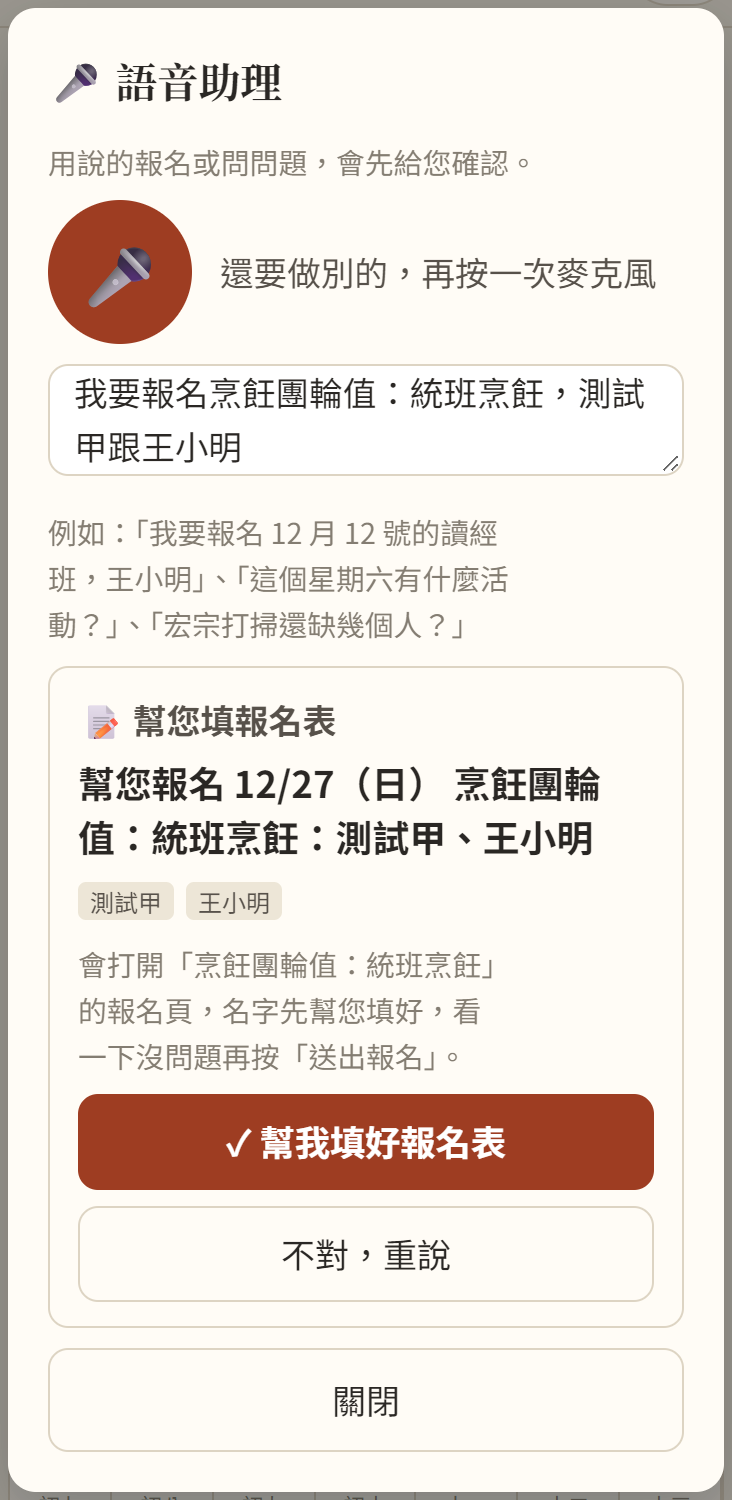
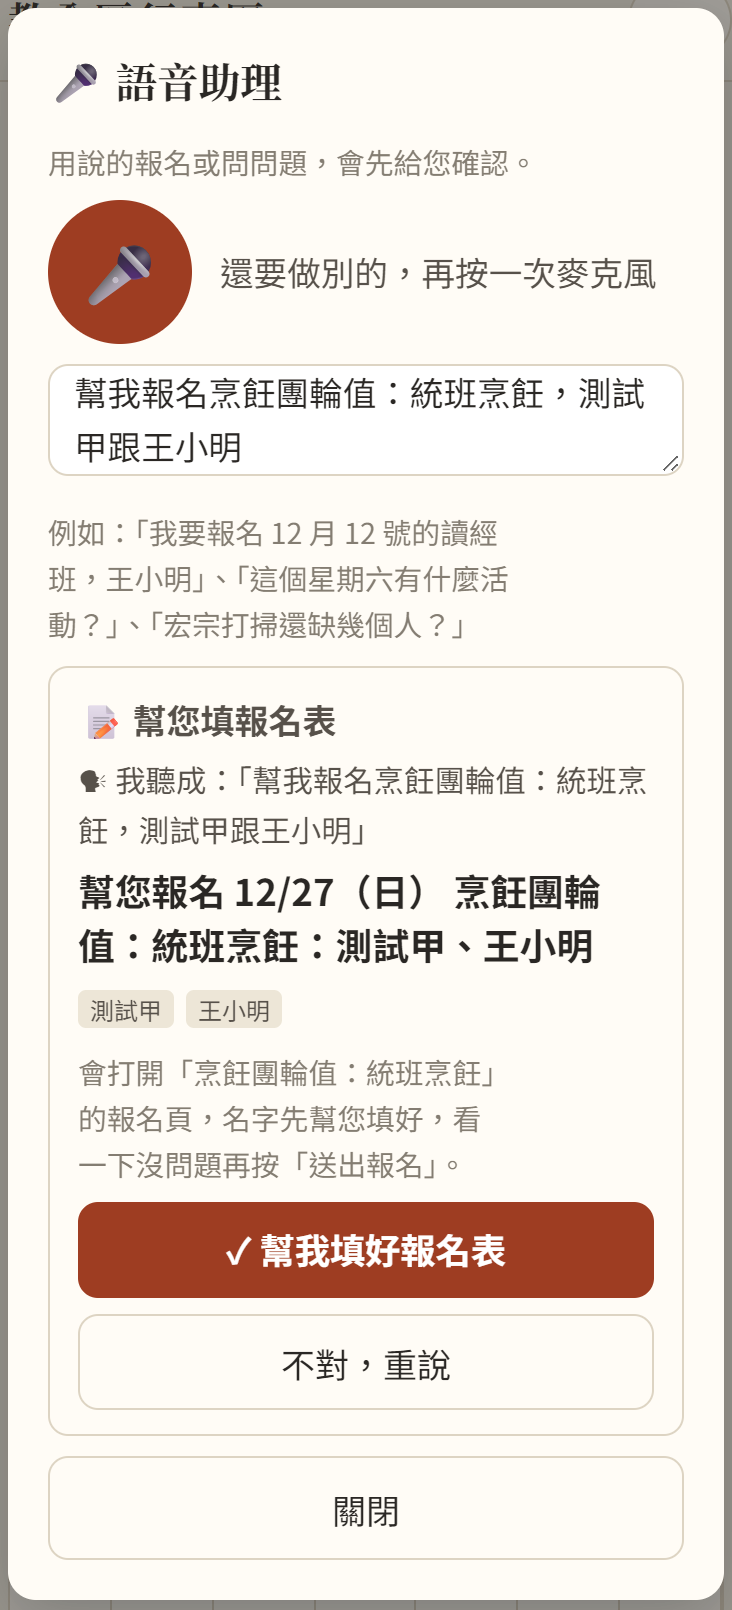
語音助理：先去掉贅字、改正台灣國語常認錯的字（照行事曆、管理者再加成員名字），確認卡寫「我聽成」

diff --git a/index.html b/index.html
@@ -15,7 +15,7 @@
   if (location.hostname === 'bailixiao.github.io') location.replace('https://jiaoquan-cal.pages.dev/' + location.pathname.replace(/^\/duty-calendar\/?/, '').replace(/index\.html$/, '') + location.search + location.hash);
   </script>
   <meta name="viewport" content="width=device-width, initial-scale=1">
-  <meta name="app-version" content="20261127m"><!-- 整個網站的版本：部署時和 ?v= 一起換（js/update-check.js 用；正式網站的 ?v= 會換成各檔案的雜湊，見 tools/build-pages.js） -->
+  <meta name="app-version" content="20261127n"><!-- 整個網站的版本：部署時和 ?v= 一起換（js/update-check.js 用；正式網站的 ?v= 會換成各檔案的雜湊，見 tools/build-pages.js） -->
   <meta name="theme-color" content="#f6f1e7">
   <title>教全區行事曆</title>
   <!-- 加到手機主畫面時的圖示與名稱 -->
@@ -32,7 +32,7 @@
   <link rel="preconnect" href="https://fonts.googleapis.com">
   <link rel="preconnect" href="https://fonts.gstatic.com" crossorigin>
   <link href="https://fonts.googleapis.com/css2?family=Noto+Sans+TC:wght@400;500;700&family=Noto+Serif+TC:wght@600;700&display=swap" rel="stylesheet">
-  <link rel="stylesheet" href="css/app.css?v=20261127m">
+  <link rel="stylesheet" href="css/app.css?v=20261127n">
   <script>try { var t = localStorage.getItem('duty-calendar:text-size'); if (t === 'l' || t === 'xl') document.documentElement.classList.add('text-' + t); } catch (e) {}</script>
 </head>
 <body class="splash-on">
@@ -127,81 +127,81 @@
   <script src="https://cdn.jsdelivr.net/npm/fullcalendar@6.1.21/index.global.min.js"></script>
   <script src="https://cdn.jsdelivr.net/npm/@fullcalendar/core@6.1.21/locales/zh-tw.global.min.js"></script>
   <!-- 改了 js、css 後把 ?v= 的日期換新，手機才不會用到舊的檔案（GitHub Pages 會快取 10 分鐘） -->
-  <script src="js/site.js?v=20261127m"></script>
-  <script src="js/region.js?v=20261127m"></script>
-  <script src="js/config.js?v=20261127m"></script>
-  <script src="js/api.js?v=20261127m"></script>
-  <script src="js/format.js?v=20261127m"></script>
-  <script src="js/member-suggest.js?v=20261127m"></script>
-  <script src="js/newcomer.js?v=20261127m"></script>
-  <script src="js/album.js?v=20261127m"></script>
-  <script src="js/member-file.js?v=20261127m"></script>
-  <script src="js/family.js?v=20261127m"></script>
-  <script src="js/lunar-util.js?v=20261127m"></script>
-  <script src="js/date-list.js?v=20261127m"></script>
-  <script src="js/share.js?v=20261127m"></script>
-  <script src="js/addcal.js?v=20261127m"></script>
-  <script src="js/duty-cache.js?v=20261127m"></script>
-  <script src="js/thanks-board.js?v=20261127m"></script>
-  <script src="js/calendar.js?v=20261127m"></script>
-  <script src="js/confirm.js?v=20261127m"></script>
-  <script src="js/voice.js?v=20261127m"></script>
-  <script src="js/reschedule.js?v=20261127m"></script>
-  <script src="js/signup.js?v=20261127m"></script>
-  <script src="js/duty-images.js?v=20261127m"></script>
-  <script src="js/roster-grid.js?v=20261127m"></script>
-  <script src="js/grid-page.js?v=20261127m"></script>
-  <script src="js/grid-image.js?v=20261127m"></script>
-  <script src="js/thanks-image.js?v=20261127m"></script>
-  <script src="js/celebrate.js?v=20261127m"></script>
-  <script src="js/duty.js?v=20261127m"></script>
-  <script src="js/mine.js?v=20261127m"></script>
-  <script src="js/venue-hours.js?v=20261127m"></script>
-  <script src="js/venue.js?v=20261127m"></script>
-  <script src="js/push.js?v=20261127m"></script>
-  <script type="text/x-admin" src="js/attend-check.js?v=20261127m"></script>
-  <script type="text/x-admin" src="js/member-dups.js?v=20261127m"></script>
-  <script type="text/x-admin" src="js/admin.js?v=20261127m"></script>
-  <script type="text/x-admin" src="js/admin-pages.js?v=20261127m"></script>
-  <script type="text/x-admin" src="js/draft-editor.js?v=20261127m"></script>
-  <script type="text/x-admin" src="js/group-fair.js?v=20261127m"></script>
-  <script type="text/x-admin" src="js/admin-duties.js?v=20261127m"></script>
-  <script type="text/x-admin" src="js/voice-admin.js?v=20261127m"></script>
-  <script type="text/x-admin" src="js/admin-accounts.js?v=20261127m"></script>
-  <script type="text/x-admin" src="js/admin-site.js?v=20261127m"></script>
-  <script src="js/region-setup.js?v=20261127m"></script>
-  <script type="text/x-admin" src="js/import-parse.js?v=20261127m"></script>
-  <script type="text/x-admin" src="js/admin-import.js?v=20261127m"></script>
-  <script type="text/x-admin" src="js/old-parse.js?v=20261127m"></script>
-  <script type="text/x-admin" src="js/region-lines.js?v=20261127m"></script>
-  <script type="text/x-admin" src="js/old-import.js?v=20261127m"></script>
-  <script type="text/x-admin" src="js/admin-people.js?v=20261127m"></script>
-  <script type="text/x-admin" src="js/admin-hq.js?v=20261127m"></script>
-  <script type="text/x-admin" src="js/stats-calc.js?v=20261127m"></script>
-  <script type="text/x-admin" src="js/edu-stats.js?v=20261127m"></script>
-  <script type="text/x-admin" src="js/edu-care.js?v=20261127m"></script>
-  <script type="text/x-admin" src="js/admin-goals.js?v=20261127m"></script>
-  <script type="text/x-admin" src="js/admin-venue.js?v=20261127m"></script>
-  <script type="text/x-admin" src="js/admin-push.js?v=20261127m"></script>
-  <script src="js/tutorial.js?v=20261127m"></script>
-  <script src="js/feedback.js?v=20261127m"></script>
-  <script src="js/help.js?v=20261127m"></script>
-  <script src="js/rollcall.js?v=20261127m"></script>
-  <script type="text/x-admin" src="js/stats-export.js?v=20261127m"></script>
-  <script src="js/repair.js?v=20261127m"></script>
-  <script src="js/activity-report.js?v=20261127m"></script>
-  <script type="text/x-admin" src="js/member-stats.js?v=20261127m"></script>
-  <script type="text/x-admin" src="js/year-report.js?v=20261127m"></script>
-  <script type="text/x-admin" src="js/admin-stats.js?v=20261127m"></script>
-  <script type="text/x-admin" src="js/admin-report.js?v=20261127m"></script>
-  <script type="text/x-admin" src="js/admin-recent-signups.js?v=20261127m"></script>
-  <script type="text/x-admin" src="js/admin-notice.js?v=20261127m"></script>
-  <script type="text/x-admin" src="js/admin-notify.js?v=20261127m"></script>
-  <script type="text/x-admin" src="js/history-parse.js?v=20261127m"></script>
-  <script type="text/x-admin" src="js/admin-history.js?v=20261127m"></script>
-  <script type="text/x-admin" src="js/site-report.js?v=20261127m"></script>
-  <script src="js/easy-mode.js?v=20261127m"></script>
-  <script src="js/app.js?v=20261127m"></script>
-  <script src="js/update-check.js?v=20261127m"></script>
+  <script src="js/site.js?v=20261127n"></script>
+  <script src="js/region.js?v=20261127n"></script>
+  <script src="js/config.js?v=20261127n"></script>
+  <script src="js/api.js?v=20261127n"></script>
+  <script src="js/format.js?v=20261127n"></script>
+  <script src="js/member-suggest.js?v=20261127n"></script>
+  <script src="js/newcomer.js?v=20261127n"></script>
+  <script src="js/album.js?v=20261127n"></script>
+  <script src="js/member-file.js?v=20261127n"></script>
+  <script src="js/family.js?v=20261127n"></script>
+  <script src="js/lunar-util.js?v=20261127n"></script>
+  <script src="js/date-list.js?v=20261127n"></script>
+  <script src="js/share.js?v=20261127n"></script>
+  <script src="js/addcal.js?v=20261127n"></script>
+  <script src="js/duty-cache.js?v=20261127n"></script>
+  <script src="js/thanks-board.js?v=20261127n"></script>
+  <script src="js/calendar.js?v=20261127n"></script>
+  <script src="js/confirm.js?v=20261127n"></script>
+  <script src="js/voice.js?v=20261127n"></script>
+  <script src="js/reschedule.js?v=20261127n"></script>
+  <script src="js/signup.js?v=20261127n"></script>
+  <script src="js/duty-images.js?v=20261127n"></script>
+  <script src="js/roster-grid.js?v=20261127n"></script>
+  <script src="js/grid-page.js?v=20261127n"></script>
+  <script src="js/grid-image.js?v=20261127n"></script>
+  <script src="js/thanks-image.js?v=20261127n"></script>
+  <script src="js/celebrate.js?v=20261127n"></script>
+  <script src="js/duty.js?v=20261127n"></script>
+  <script src="js/mine.js?v=20261127n"></script>
+  <script src="js/venue-hours.js?v=20261127n"></script>
+  <script src="js/venue.js?v=20261127n"></script>
+  <script src="js/push.js?v=20261127n"></script>
+  <script type="text/x-admin" src="js/attend-check.js?v=20261127n"></script>
+  <script type="text/x-admin" src="js/member-dups.js?v=20261127n"></script>
+  <script type="text/x-admin" src="js/admin.js?v=20261127n"></script>
+  <script type="text/x-admin" src="js/admin-pages.js?v=20261127n"></script>
+  <script type="text/x-admin" src="js/draft-editor.js?v=20261127n"></script>
+  <script type="text/x-admin" src="js/group-fair.js?v=20261127n"></script>
+  <script type="text/x-admin" src="js/admin-duties.js?v=20261127n"></script>
+  <script type="text/x-admin" src="js/voice-admin.js?v=20261127n"></script>
+  <script type="text/x-admin" src="js/admin-accounts.js?v=20261127n"></script>
+  <script type="text/x-admin" src="js/admin-site.js?v=20261127n"></script>
+  <script src="js/region-setup.js?v=20261127n"></script>
+  <script type="text/x-admin" src="js/import-parse.js?v=20261127n"></script>
+  <script type="text/x-admin" src="js/admin-import.js?v=20261127n"></script>
+  <script type="text/x-admin" src="js/old-parse.js?v=20261127n"></script>
+  <script type="text/x-admin" src="js/region-lines.js?v=20261127n"></script>
+  <script type="text/x-admin" src="js/old-import.js?v=20261127n"></script>
+  <script type="text/x-admin" src="js/admin-people.js?v=20261127n"></script>
+  <script type="text/x-admin" src="js/admin-hq.js?v=20261127n"></script>
+  <script type="text/x-admin" src="js/stats-calc.js?v=20261127n"></script>
+  <script type="text/x-admin" src="js/edu-stats.js?v=20261127n"></script>
+  <script type="text/x-admin" src="js/edu-care.js?v=20261127n"></script>
+  <script type="text/x-admin" src="js/admin-goals.js?v=20261127n"></script>
+  <script type="text/x-admin" src="js/admin-venue.js?v=20261127n"></script>
+  <script type="text/x-admin" src="js/admin-push.js?v=20261127n"></script>
+  <script src="js/tutorial.js?v=20261127n"></script>
+  <script src="js/feedback.js?v=20261127n"></script>
+  <script src="js/help.js?v=20261127n"></script>
+  <script src="js/rollcall.js?v=20261127n"></script>
+  <script type="text/x-admin" src="js/stats-export.js?v=20261127n"></script>
+  <script src="js/repair.js?v=20261127n"></script>
+  <script src="js/activity-report.js?v=20261127n"></script>
+  <script type="text/x-admin" src="js/member-stats.js?v=20261127n"></script>
+  <script type="text/x-admin" src="js/year-report.js?v=20261127n"></script>
+  <script type="text/x-admin" src="js/admin-stats.js?v=20261127n"></script>
+  <script type="text/x-admin" src="js/admin-report.js?v=20261127n"></script>
+  <script type="text/x-admin" src="js/admin-recent-signups.js?v=20261127n"></script>
+  <script type="text/x-admin" src="js/admin-notice.js?v=20261127n"></script>
+  <script type="text/x-admin" src="js/admin-notify.js?v=20261127n"></script>
+  <script type="text/x-admin" src="js/history-parse.js?v=20261127n"></script>
+  <script type="text/x-admin" src="js/admin-history.js?v=20261127n"></script>
+  <script type="text/x-admin" src="js/site-report.js?v=20261127n"></script>
+  <script src="js/easy-mode.js?v=20261127n"></script>
+  <script src="js/app.js?v=20261127n"></script>
+  <script src="js/update-check.js?v=20261127n"></script>
 </body>
 </html>

diff --git a/tools/help-shots.js b/tools/help-shots.js
@@ -296,8 +296,8 @@ const SHOTS = [
   // 教育統計比上一期、去年同期（2026/11/27）。第一次在新開的測試版跑時統計是先讀的，要再跑一次才有建好的示範資料
   { name: 'edu-compare', admin: true, hash: '#/admin/stats', js: `if (!window.__ecSeed) { window.__ecSeed = 1; const mk = (date, names) => ({ date, create: { name: '兒童讀經班（示範）', category: '教育', nature: '課程', startTime: '09:00', endTime: '10:00', location: '區中心' }, entries: names.map((name) => ({ name, identity: '道親' })) }); const A = '測試甲', B = '測試乙', C2 = '測試丙', D = '測試丁', E = '王小明'; await Api.admin('adminImportAttendance', { sessions: [mk('2025-10-04', [A, B]), mk('2025-10-18', [A]), mk('2025-11-01', [A, B]), mk('2026-07-04', [A, B, C2]), mk('2026-07-18', [A, C2]), mk('2026-08-01', [A, B, C2]), mk('2026-10-03', [A, B, C2, D]), mk('2026-10-17', [A, B, C2, D, E]), mk('2026-11-07', [A, B, D, E])] }); location.hash = '#/admin/groups'; await __wait(300); location.hash = '#/admin/stats'; } for (let i = 0; i < 30 && !document.querySelector('input[name=scat]'); i++) await __wait(300); [...document.querySelectorAll('input[name=scat]')].find((x) => x.value === '教育').click(); await __wait(800); [...document.querySelectorAll('input[name=unit]')].find((x) => x.value === 'quarter').click(); for (let i = 0; i < 30 && !document.querySelector('.stat-cards .cmp-list'); i++) await __wait(300); await __wait(400);`, clip: `return __box('.stat-cards', 6);` },
   // 🎤 語音助理（2026/11/27）：AI 的回覆用假的（截圖不呼叫 AI）
-  { name: 'voice-signup', hash: '#/', js: `const res = (await __g({ action: 'getEvents', from: '2026-11-28', to: '2027-02-28' })).data; const d = res.duties.find((x) => x.mode !== '公告型' && x.start > res.today && !x.cancelled && x.positions.length >= 1); Api.voiceAsk = async () => ({ heard: '', plan: { action: 'signup', say: '幫您報名 ' + Fmt.shortDate(d.start) + ' ' + d.name + '：測試甲、王小明', dutyId: d.id, dutyName: d.name, date: d.start, names: ['測試甲', '王小明'], position: '' } }); document.querySelector('.voice-fab').click(); await __wait(500); const t = document.querySelector('[data-text]'); t.value = '我要報名' + d.name + '，測試甲跟王小明'; document.querySelector('[data-send]').click(); for (let i = 0; i < 20 && !document.querySelector('[data-ok]'); i++) await __wait(200); await __wait(300);`, clip: `return __box('.modal-box', 4);` },
-  { name: 'voice-filled', hash: '#/', js: `const res = (await __g({ action: 'getEvents', from: '2026-11-28', to: '2027-02-28' })).data; const d = res.duties.find((x) => x.mode !== '公告型' && x.start > res.today && !x.cancelled && x.positions.length >= 1); Api.voiceAsk = async () => ({ heard: '', plan: { action: 'signup', say: '幫您報名 ' + Fmt.shortDate(d.start) + ' ' + d.name + '：測試甲、王小明', dutyId: d.id, dutyName: d.name, date: d.start, names: ['測試甲', '王小明'], position: '' } }); document.querySelector('.voice-fab').click(); await __wait(500); document.querySelector('[data-text]').value = '報名'; document.querySelector('[data-send]').click(); for (let i = 0; i < 20 && !document.querySelector('[data-ok]'); i++) await __wait(200); document.querySelector('[data-ok]').click(); for (let i = 0; i < 30 && !document.querySelector('.voice-filled'); i++) await __wait(300); await __wait(1200);`, clip: `const n = document.querySelector('.voice-filled'); const f = n.parentElement.querySelector('.names, [data-names]') || n.nextElementSibling; n.scrollIntoView(); const r = n.getBoundingClientRect(); const e = (document.querySelector('[data-names]') || f).getBoundingClientRect(); return { x: 0, y: r.top + scrollY - 60, width: innerWidth, height: Math.min(e.bottom - r.top + 80, 1600) };` },
+  { name: 'voice-signup', hash: '#/', js: `const res = (await __g({ action: 'getEvents', from: '2026-11-28', to: '2027-02-28' })).data; const d = res.duties.find((x) => x.mode !== '公告型' && x.start > res.today && !x.cancelled && x.positions.length >= 1); Api.voiceAsk = async () => ({ heard: '', plan: { action: 'signup', heard: '幫我報名' + d.name + '，測試甲跟王小明', say: '幫您報名 ' + Fmt.shortDate(d.start) + ' ' + d.name + '：測試甲、王小明', dutyId: d.id, dutyName: d.name, date: d.start, names: ['測試甲', '王小明'], position: '' } }); document.querySelector('.voice-fab').click(); await __wait(500); const t = document.querySelector('[data-text]'); t.value = '我要報名' + d.name + '，測試甲跟王小明'; document.querySelector('[data-send]').click(); for (let i = 0; i < 20 && !document.querySelector('[data-ok]'); i++) await __wait(200); await __wait(300);`, clip: `return __box('.modal-box', 4);` },
+  { name: 'voice-filled', hash: '#/', js: `const res = (await __g({ action: 'getEvents', from: '2026-11-28', to: '2027-02-28' })).data; const d = res.duties.find((x) => x.mode !== '公告型' && x.start > res.today && !x.cancelled && x.positions.length >= 1); Api.voiceAsk = async () => ({ heard: '', plan: { action: 'signup', heard: '幫我報名' + d.name + '，測試甲跟王小明', say: '幫您報名 ' + Fmt.shortDate(d.start) + ' ' + d.name + '：測試甲、王小明', dutyId: d.id, dutyName: d.name, date: d.start, names: ['測試甲', '王小明'], position: '' } }); document.querySelector('.voice-fab').click(); await __wait(500); document.querySelector('[data-text]').value = '報名'; document.querySelector('[data-send]').click(); for (let i = 0; i < 20 && !document.querySelector('[data-ok]'); i++) await __wait(200); document.querySelector('[data-ok]').click(); for (let i = 0; i < 30 && !document.querySelector('.voice-filled'); i++) await __wait(300); await __wait(1200);`, clip: `const n = document.querySelector('.voice-filled'); const f = n.parentElement.querySelector('.names, [data-names]') || n.nextElementSibling; n.scrollIntoView(); const r = n.getBoundingClientRect(); const e = (document.querySelector('[data-names]') || f).getBoundingClientRect(); return { x: 0, y: r.top + scrollY - 60, width: innerWidth, height: Math.min(e.bottom - r.top + 80, 1600) };` },
   { name: 'voice-admin', admin: true, hash: '#/admin/duties', js: `await __wait(1500); const list = (await Api.admin('adminDutyList', {})).duties; const d = list.find((x) => x.start > '2026-11-28' && !x.cancelled); const real = Api.admin; Api.admin = async (a, b, r) => a === 'voiceAsk' ? { heard: '', plan: { action: 'cancel', say: '把 ' + Fmt.shortDate(d.start) + ' ' + d.name + ' 標成停課，原因：老師請假', dutyId: d.id, dutyName: d.name, date: d.start, on: true, reason: '老師請假' } } : real(a, b, r); document.querySelector('.voice-fab').click(); await __wait(500); document.querySelector('[data-text]').value = d.name + '停課，老師請假'; document.querySelector('[data-send]').click(); for (let i = 0; i < 20 && !document.querySelector('[data-ok]'); i++) await __wait(200); await __wait(300);`, clip: `return __box('.modal-box', 4);` },
   { name: 'voice-create', admin: true, hash: '#/admin/duties', js: `await __wait(1500); const real = Api.admin; Api.admin = async (a, b, r) => a === 'voiceAsk' ? { heard: '', plan: { action: 'create', say: '新增 2027/1/16（六）宏宗打掃，第三組，08:00', duty: { name: '宏宗打掃（示範）', category: '勤務', nature: '勤務', start: '2027-01-16', end: '2027-01-16', startTime: '08:00', location: '宏宗', group: '第三組', positions: [{ name: '了愿', min: 6 }] } } } : real(a, b, r); document.querySelector('.voice-fab').click(); await __wait(500); document.querySelector('[data-text]').value = '新增 1 月 16 號宏宗打掃'; document.querySelector('[data-send]').click(); for (let i = 0; i < 20 && !document.querySelector('[data-ok]'); i++) await __wait(200); document.querySelector('[data-ok]').click(); for (let i = 0; i < 30 && !document.querySelector('[data-create]:not([hidden])'); i++) await __wait(300); if (!document.querySelector('[data-create]:not([hidden])')) throw new Error('INFO 草稿畫面沒有打開'); await __wait(500);`, clip: `return __box('.modal-box', 4);` },
   { name: 'adm-lunar-edit', admin: true, hash: '#/admin/duties/new', js: `await __wait(2500); const f = document.querySelector('[data-body] form'); const setv = (n, v) => { const i = document.querySelector('[data-body] form').elements[n]; if (!i) throw new Error('INFO no field ' + n); i.value = v; i.dispatchEvent(new Event('input', { bubbles: true })); i.dispatchEvent(new Event('change', { bubbles: true })); }; document.querySelector('input[name=dateType][value=lunar]').click(); await __wait(500); setv('name', '拜香輪值'); setv('groupType', '拜香輪值組'); await __wait(500); setv('lunarFrom', '2026-03-01'); setv('lunarTo', '2026-04-20'); await __wait(300); const g1 = document.querySelector('input[name=group][value="第一組"]'); if (g1) { g1.checked = true; g1.dispatchEvent(new Event('change', { bubbles: true })); } await __wait(300); document.querySelector('[data-body] form').requestSubmit(); for (let i = 0; i < 20 && !document.querySelector('.lunar-edit'); i++) await __wait(300); if (!document.querySelector('.lunar-edit')) throw new Error('INFO no preview'); const sel = document.querySelectorAll('[data-lgroup]'); [['第一組', ''], ['第二組', ''], ['第三組', ''], ['第一組', '']].forEach(([g], i) => { if (sel[i]) { sel[i].value = g; sel[i].dispatchEvent(new Event('change', { bubbles: true })); } }); const nm = document.querySelector('[data-lname="0"]'); nm.value = nm.value + '（大典）'; nm.dispatchEvent(new Event('change', { bubbles: true })); await __wait(300); document.querySelector('.lunar-preview').scrollIntoView({ block: 'center' }); await __wait(200);`, clip: `return __box(document.querySelector('.lunar-preview'), 8);` },

diff --git a/worker/src/hq.js b/worker/src/hq.js
@@ -392,7 +392,7 @@ export function createHq({ gs, store, cross, openRegions, localAiKey }) {
         d.mode === '公告型' ? '公告（輪值：' + (d.group || '') + '）' : '', d.cancelled ? '停課' : '', short ? '缺人：' + short : ''].filter(Boolean).join('｜');
     }).join('\n');
   }
-  function voicePrompt(text, lines, isAdmin, today) {
+  function voicePrompt(text, lines, isAdmin, today, members) {
     const days = Array.from({ length: 21 }, (_, i) => { const d = gs.addDaysStr_(today, i); return d.slice(5) + '（' + weekdayOf(d) + '）'; }).join('、');
     const allowed = isAdmin ? VOICE_ADMIN : VOICE_PUBLIC;
     return [
@@ -411,7 +411,10 @@ export function createHq({ gs, store, cross, openRegions, localAiKey }) {
       isAdmin ? '- notice：複製通知（要發到 LINE 群組的報名通知）。dutyId、date。' : '',
       '- unclear：聽不懂或清單裡找不到。say＝請他再說清楚一點（舉例怎麼說）。',
       '輸出格式（只輸出這個 JSON，不要其他文字）：{ "action": "...", "say": "給使用者看的一句話（要做的事，例：幫您報名 12/12（六）讀經班：王小明）", "dutyId": "", "date": "", "names": [], "position": "", "on": true, "reason": "", "duty": {} }',
-      '使用者說：「' + text + '」'
+      '【先整理再判斷】使用者是用說的：常有贅字（嗯、啊、那個、就是、然後、對、好、你幫我、我想說），而且多半是台灣國語，語音辨識常常把字認錯：ㄓㄔㄕ／ㄗㄘㄙ、ㄣ／ㄥ、ㄈ／ㄏ、ㄋ／ㄌ 不分，同音字、近音字也常錯（例：讀經班→獨經班、讀金班；停課→聽課、亭課；宏宗→紅中、洪宗；第三組→第山組；報名→保名；彌勒山→迷樂山；拜香→敗香）。請先把贅字去掉、依照上面的勤務清單' + (members ? '和成員名字' : '') + '把認錯的字改成最可能的，整理成一句通順的話，再判斷要做什麼。',
+      members ? '成員名字（只用來改正名字的錯字；說的名字和某位成員同音或近音就用成員的寫法，完全對不上就照說的寫）：' + members : '',
+      '輸出時多一個 "heard"：整理過、改正錯字後的那句話（例：「幫我報名 12/12 讀經班，王小明」）。',
+      '使用者說（語音辨識的原文）：「' + text + '」'
     ].filter(Boolean).join('\n');
   }
   const VOICE_IP_LIMIT = 15; // 家人們：同一個網路 10 分鐘最多幾次
@@ -435,7 +438,9 @@ export function createHq({ gs, store, cross, openRegions, localAiKey }) {
     const isAdmin = !!who && who.role !== '唯讀';
     const from = who ? gs.addDaysStr_(today, -45) : today;
     const duties = gs.getEvents_({ from, to: gs.addDaysStr_(today, 90) }).duties;
-    const res = await aiRun([{ text: voicePrompt(text, voiceDutyLines(duties), isAdmin, today) }], false, curRegion, { fast: true });
+    // 管理者：給成員名字（只有名字，不含電話、佛堂）讓 AI 改正名字的錯字；家人們不給
+    const members = isAdmin ? [...new Set(gs.readTableCached_(gs.SHEETS.MEMBERS).filter((m) => m['姓名'] && m['待確認'] !== '是' && m['啟用中'] !== '否').map((m) => gs.normalizeName_(m['姓名'])))].slice(0, 800).join('、') : '';
+    const res = await aiRun([{ text: voicePrompt(text, voiceDutyLines(duties), isAdmin, today, members) }], false, curRegion, { fast: true });
     let plan;
     try {
       const raw = JSON.parse(String(res.text).replace(/```(json)?/g, '').trim());
@@ -446,7 +451,7 @@ export function createHq({ gs, store, cross, openRegions, localAiKey }) {
     const allowed = isAdmin ? VOICE_ADMIN : VOICE_PUBLIC;
     const action = String(plan.action || '');
     if (allowed.indexOf(action) === -1) return { plan: unclear(action && VOICE_ADMIN.indexOf(action) !== -1 ? '這件事要登入後台才能用說的做' : ''), heard: text };
-    const out = { action, say: gs.cleanText_(plan.say || '').slice(0, 300) };
+    const out = { action, say: gs.cleanText_(plan.say || '').slice(0, 300), heard: gs.cleanText_(plan.heard || '').slice(0, 300) };
     if (action === 'answer' || action === 'unclear') return { plan: out.say ? out : unclear(), heard: text };
     if (action === 'create') {
       const d = plan.duty && typeof plan.duty === 'object' ? plan.duty : null;

diff --git a/js/voice.js b/js/voice.js
@@ -164,10 +164,12 @@
 
     function showPlan(plan) {
       const h = handlers[plan.action] || handlers.unclear;
+      if (plan.heard) textBox.value = plan.heard; // 去掉贅字、改正錯字後的那句話（可以再改、再送）
       const box = $('[data-result]');
       const names = plan.names && plan.names.length ? `<p class="voice-names">${plan.names.map((n) => `<span class="tag">${esc(n)}</span>`).join(' ')}</p>` : '';
       box.innerHTML = `<div class="voice-plan${plan.action === 'unclear' ? ' is-unclear' : ''}">
         <p class="voice-plan-title">${esc(h.title)}</p>
+        ${plan.heard ? `<p class="voice-heard">🗣 我聽成：「${esc(plan.heard)}」</p>` : ''}
         <p class="voice-say">${esc(plan.say || '')}</p>
         ${plan.action === 'signup' || plan.action === 'attend' ? names : ''}
         ${h.detail ? h.detail(plan) : ''}

diff --git a/css/app.css b/css/app.css
@@ -3268,3 +3268,4 @@ body.has-modal .voice-fab { display: none; }
 @media print { .voice-fab { display: none; } }
 .voice-mic.is-think { background: var(--muted); animation: voice-spin 1.6s ease-in-out infinite; }
 @keyframes voice-spin { 0%, 100% { transform: rotate(0); } 50% { transform: rotate(180deg); } }
+.voice-heard { margin: 0 0 6px; color: var(--ink-2); font-size: .95rem; }

diff --git a/docs/spec.md b/docs/spec.md
@@ -721,4 +721,5 @@
   - 唯讀帳號只有 answer、open。
 - 伺服器 voiceAsk（worker/src/hq.js，只有 Worker 版；分壇先不開）：text 最多 300 字；有 token＝管理者模式（requireAdmin_）。給 AI 的資料：今天、接下來 14 天的星期對照、勤務清單（家人們：今天～90 天；管理者：前 45 天～90 天；每筆 id、名稱、日期星期、時間、地點、了愿項目、缺幾人、停課），不含任何名單、電話。回來的 JSON 檢查：action 在允許清單、dutyId 在清單裡、日期格式、名字最多 20 個；不對就回 unclear。
 - 防濫用：家人們同一個網路 10 分鐘最多 15 次；全站一天最多 300 次（超過回「今天的語音次數用完了」）。
+- 先整理再判斷（維護者要求）：提示詞要 AI 先去掉贅字（嗯、那個、就是、然後⋯），依照勤務清單把台灣國語常認錯的字改回來（ㄓㄔㄕ／ㄗㄘㄙ、ㄣ／ㄥ、ㄈ／ㄏ、ㄋ／ㄌ，例：獨經班→讀經班、聽課→停課、紅中→宏宗），回 heard＝整理過的那句話；確認卡上寫「🗣 我聽成：⋯」，框框也換成這句（可以改了再送）。管理者另外給 AI 成員名字（只有名字，最多 800 個，不含待確認、停用的）改正名字的錯字；家人們不給名字。
 - 門口（tools/local-ai/gateway.js）：請求帶 fast＝true 時用 Claude Haiku、不排在讀檔案的後面（可以同時跑），系統提示改成語音助理用的；一次最多 60 秒。
